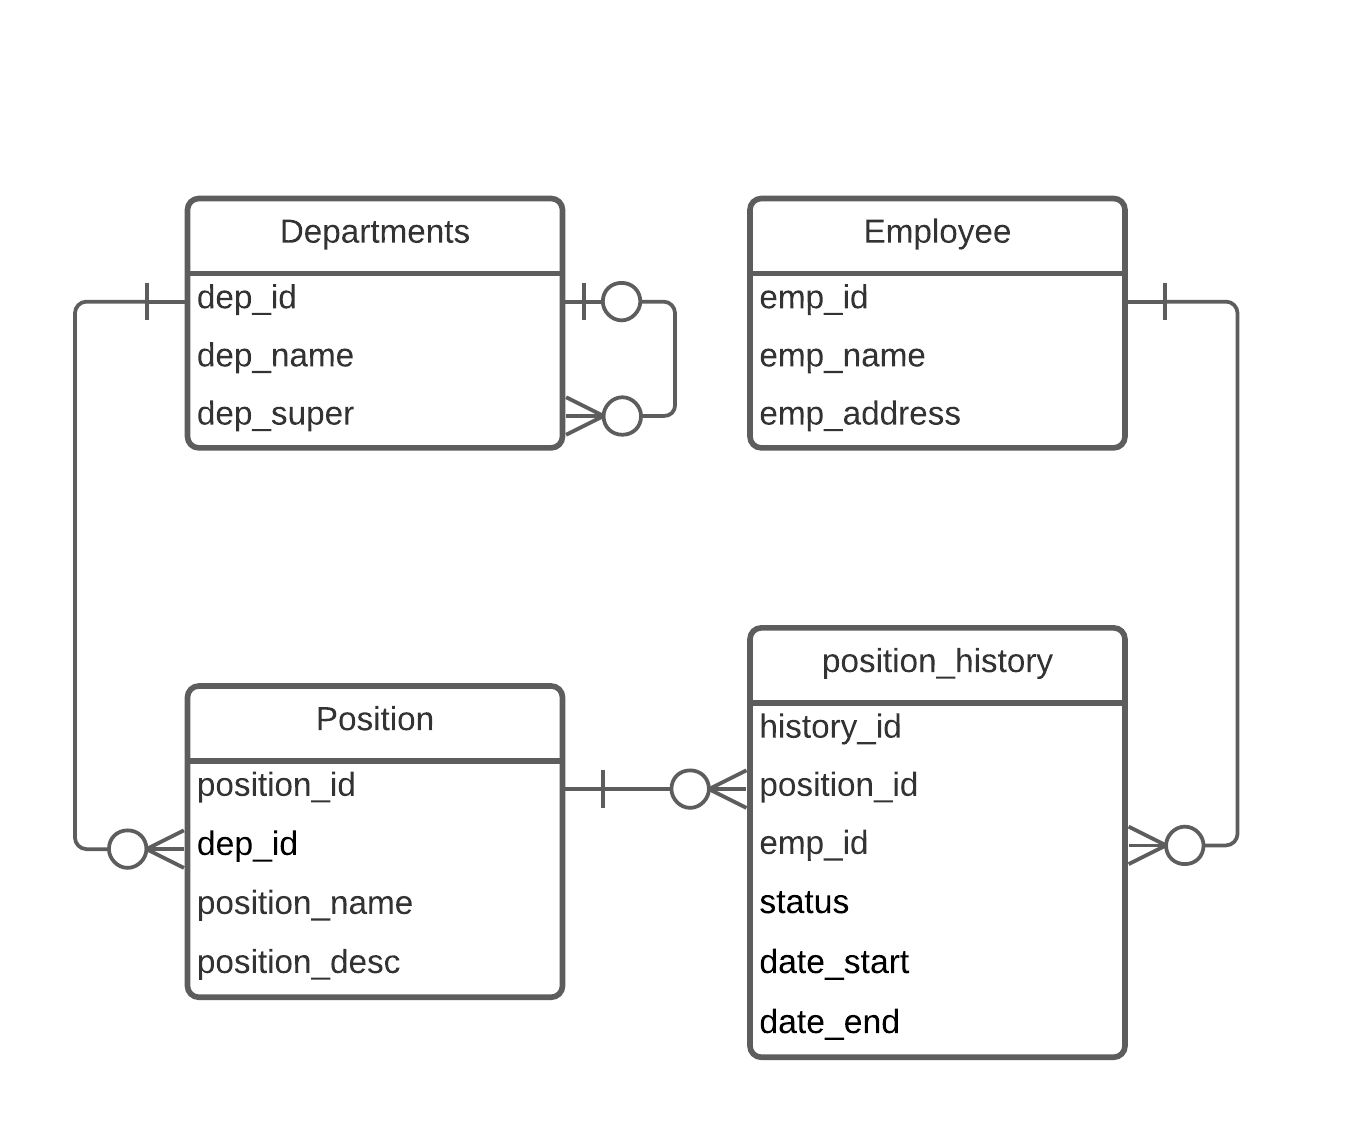
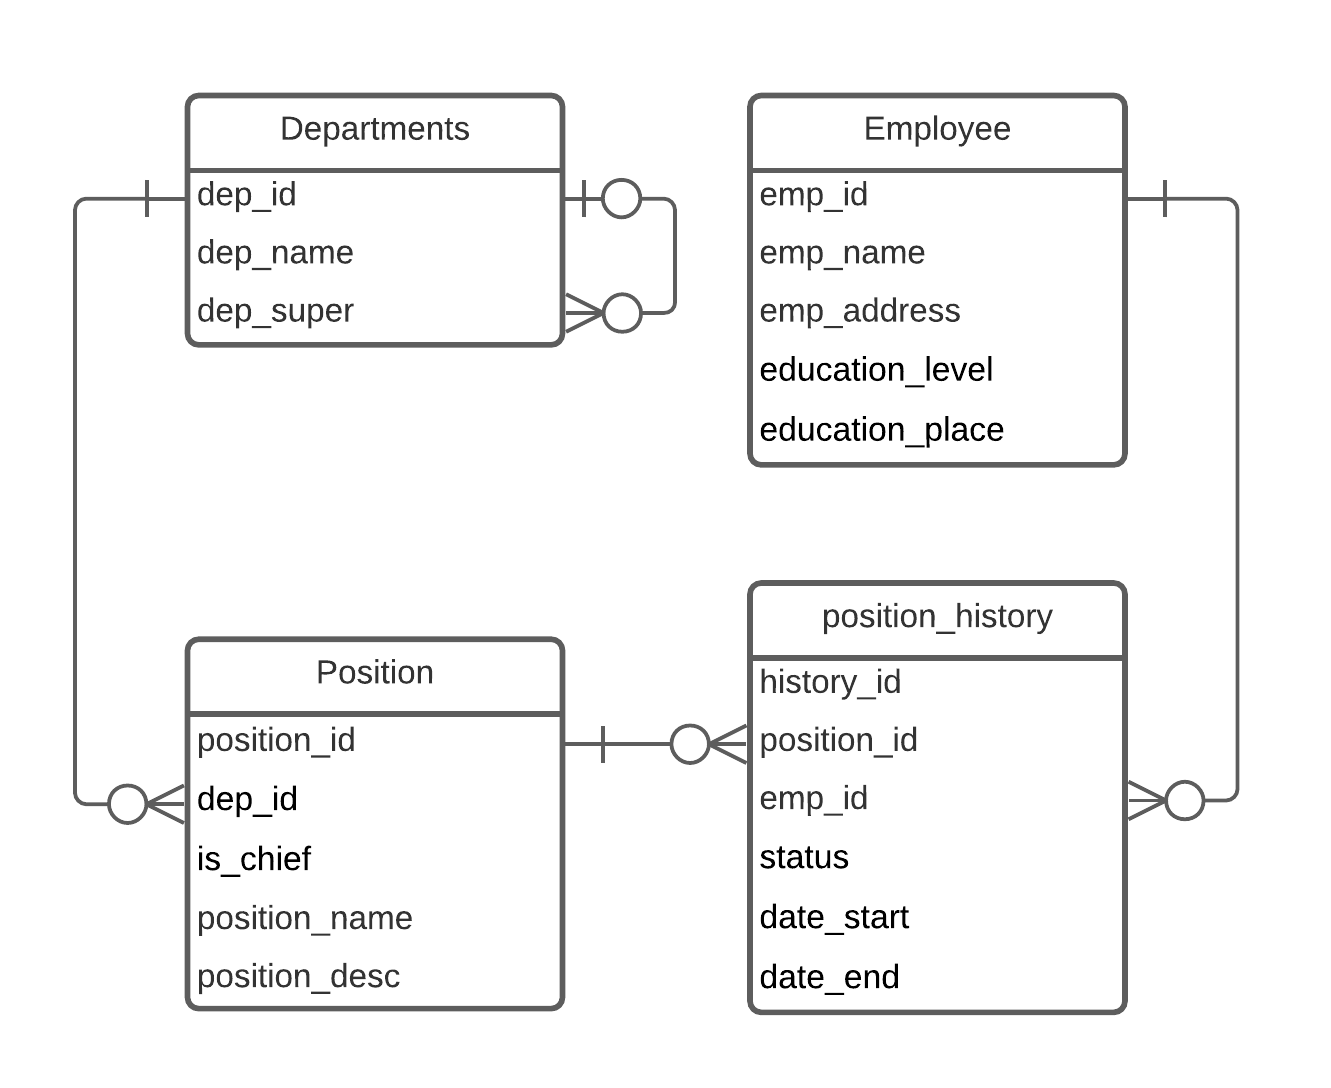
Fix issues in desciption

Changed region(s): [[0.0308, 0.1875, 0.9549, 0.9375], [0.0308, 0.0625, 0.9241, 0.4375], [0.0308, 0.1875, 0.0616, 0.2188]]

diff --git a/readme.md b/readme.md
@@ -20,7 +20,7 @@ Web-application CMC MSU
 4. Список служащих (отображается имя и некоторые другие параметры, например текущаю должность)
 ### Список подразделений
 1. Кнопка "Добавить подразделение" (отправляет на страницу информации о подразделении в режиме
-создания нового подразделения, аналогично таковому для служащих)
+ создания нового подразделения, аналогично таковому для служащих)
 2. Фильтр поиска по подразделениям (фильтр по названию, фильтр по руководителю и т.д.)
 3. Режим сортировки (по названию, по руководителю, иерархия)
 4. Список подразделений (отображается имя и руководитель, в режиме иерархии отображается в виде 
@@ -28,7 +28,7 @@ Web-application CMC MSU
 ### Информация о служащем
 1. ФИО (редактируемое)
 2. Домашний адрес (редактируемое)
-3. Образование (редактируемое)
+3. Образование (уровень + название последнего учебного заведения, редактируемое)
 4. Срок работы в компании (не редактируется, вычисляется по суммарному времени занимаемых
  должностей)
 5. История занимаемых должностей (короткий список со ссылкой на страницу "История должностей")
@@ -41,15 +41,15 @@ Web-application CMC MSU
 ### Информация о подразделении
 1. Название (редактируемое)
 2. Руководитель (редактируемое, соответствует должности руководитель, но не отображается в списке 
-должностей)
+ должностей)
 3. Должности (редактируемый список должностей и позиций с возможностью открывать, закрывать (если
  в должности никто не состоит) и менять кол-во позиций, ссылка на список служащих с 
  соответствующим фильтром)
-4. Головное подразделение (с возмостью сменить головное подразделение или назначить подразделением
- верхнего уровня)
+4. Головное подразделение (с возмостью сменить головное подразделение для всех кроме подразделения,
+ обозначающего саму компания и её руководство)
 5. Внутренние подразделения (ссылка на на список подразделений с соответствующим фильтром)
 6. Кнопка удаление подразделения (возможно только если нет людей занимающих должности в 
-подразделении и внутренних подразделений)
+ подразделении и внутренних подразделений)
 
 Схема базы данных
 -----------------
